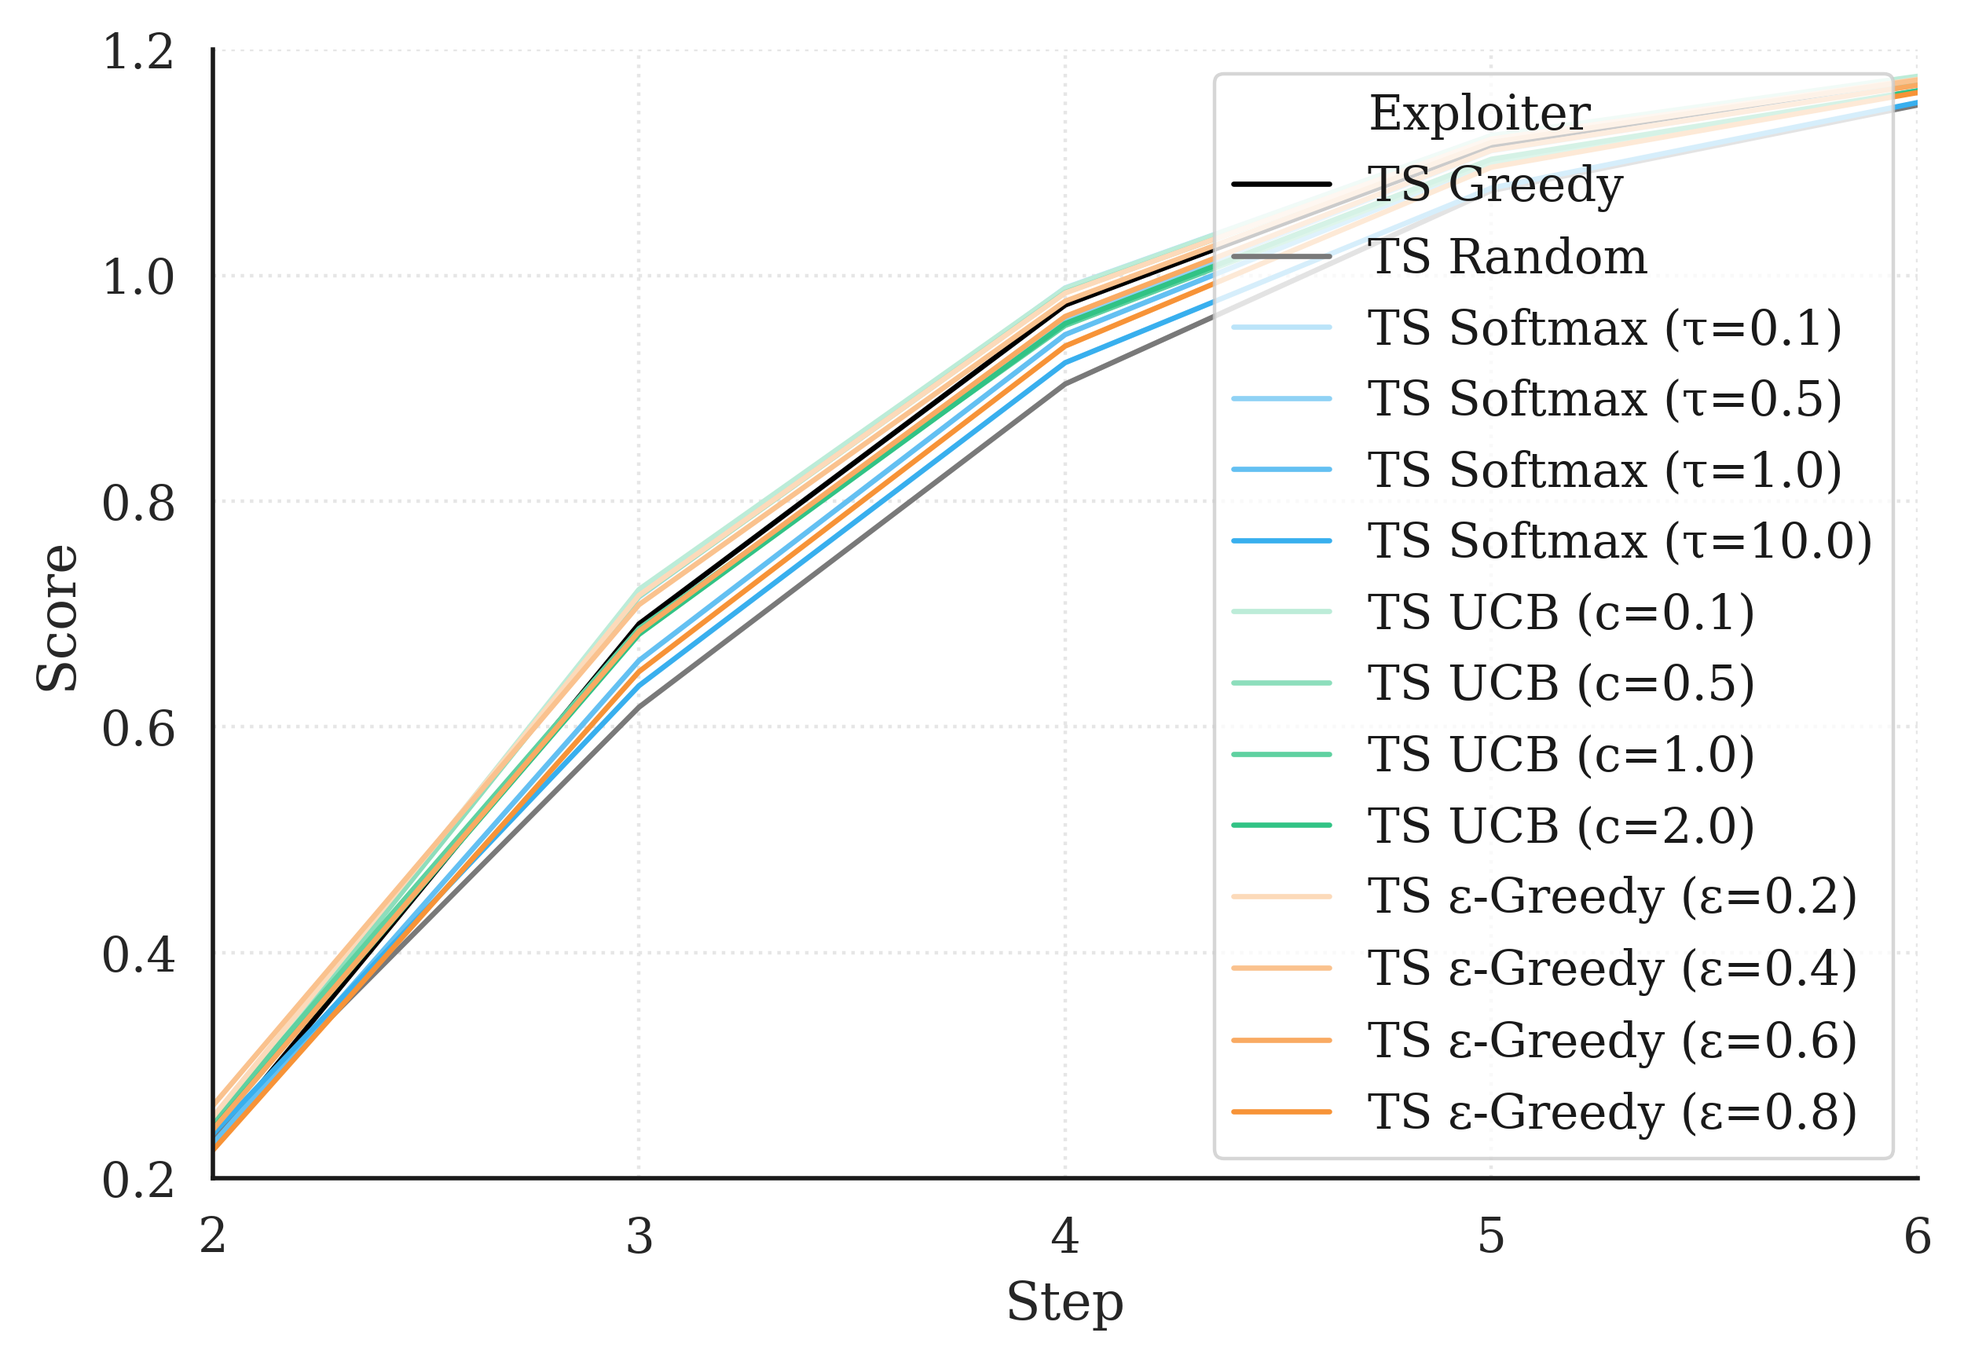
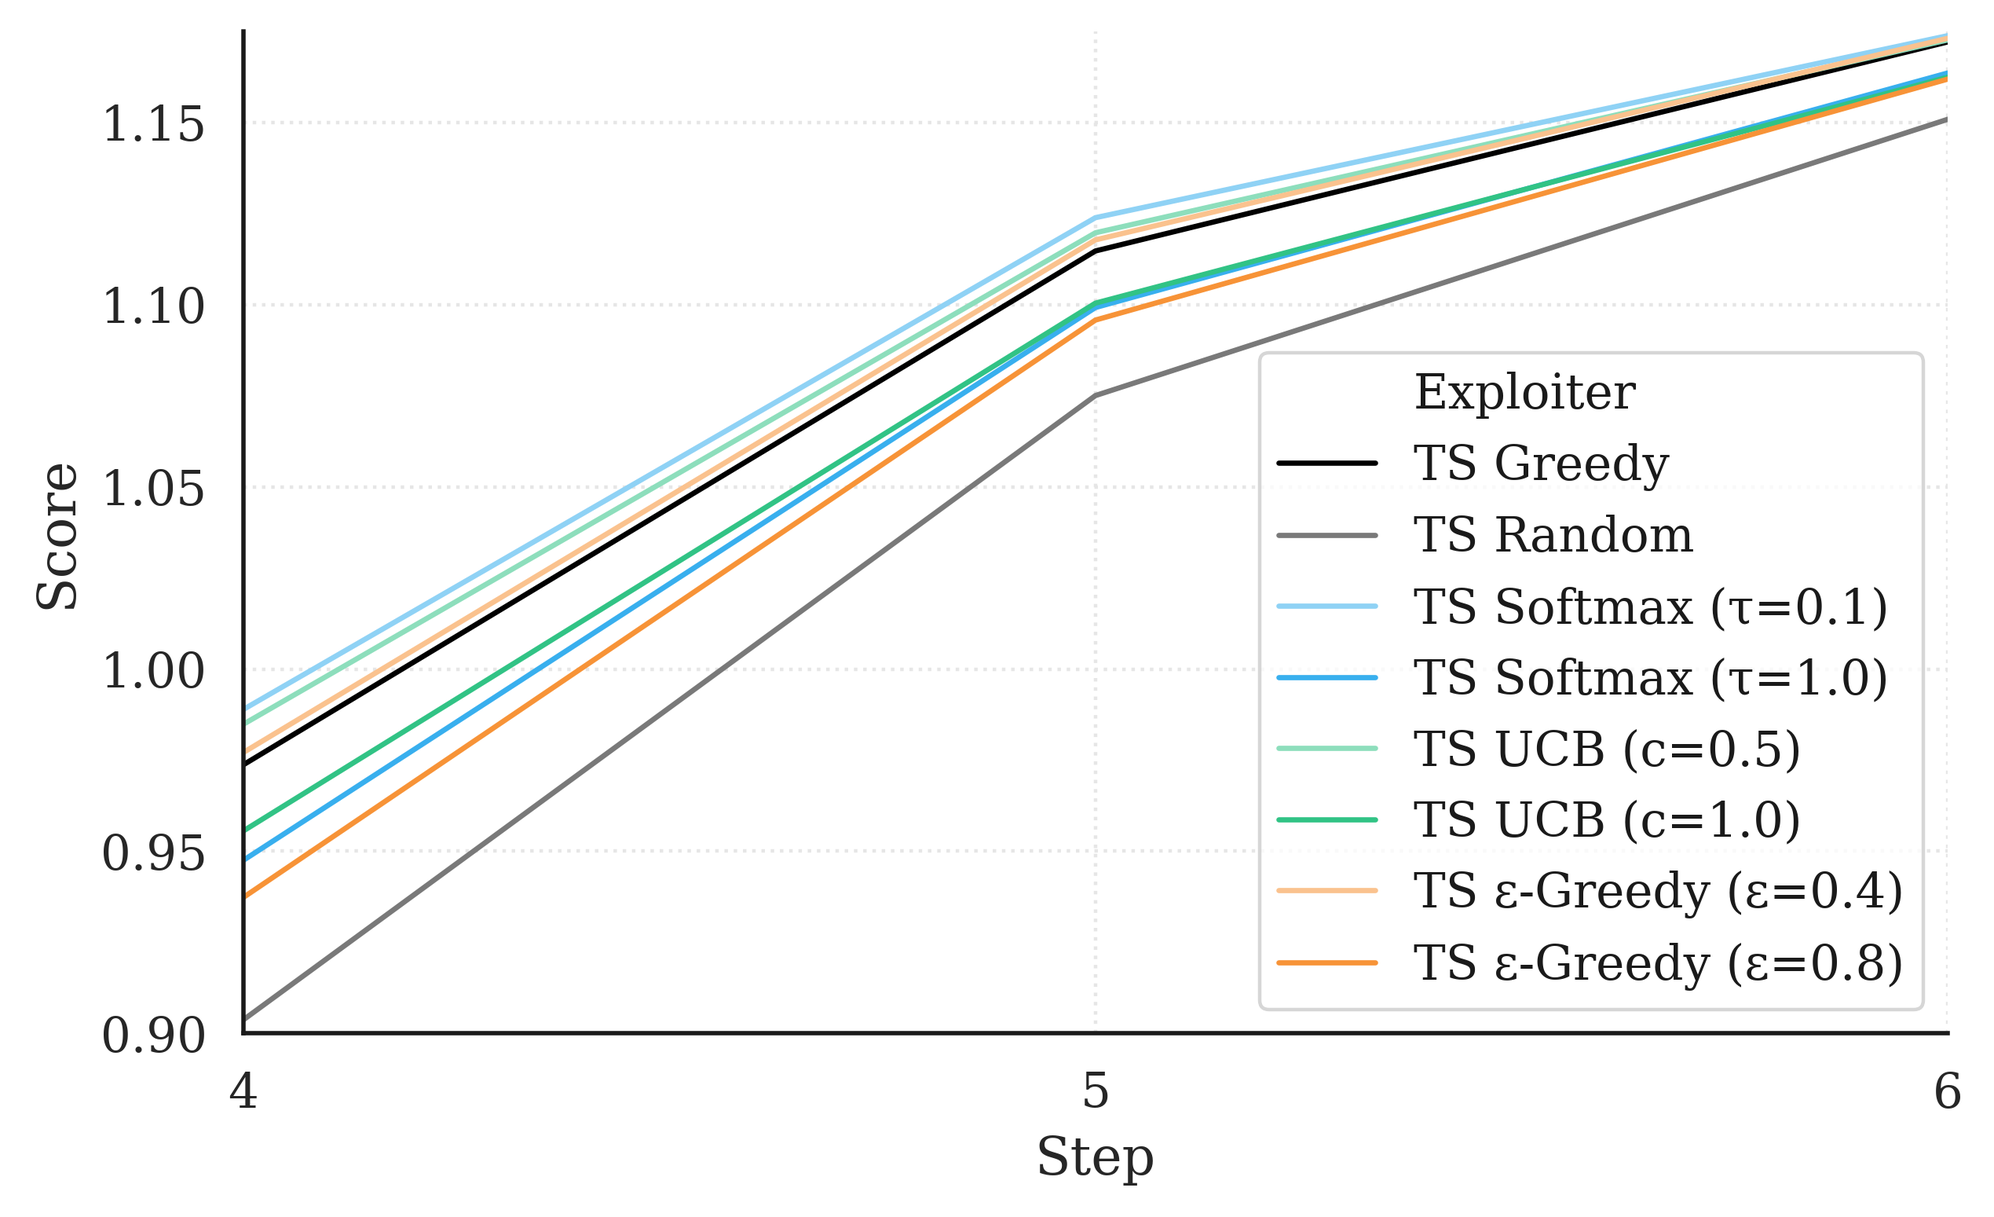
yeah... not going to make the submission deadline...

diff --git a/tsucb/pbt/examples/pbt_paper_toy_example.py b/tsucb/pbt/examples/pbt_paper_toy_example.py
@@ -8,7 +8,7 @@ import seaborn as sns
 import pandas as pd
 
 from tsucb.helper import util, defaults
-from tsucb.pbt.examples.pbt_local_mnist_example import uniform_perturb, perturb, normal_explore
+from tsucb.pbt.examples.pbt_local_mnist_example import uniform_perturb, perturb, normal_explore, normal_explore_radius, normal_explore_dual_radius, normal_explore_offset, normal_explore_dual_offset
 from tsucb.pbt.strategies import *
 from tsucb.pbt.pbt import Member, Population
 
@@ -57,16 +57,22 @@ class ToyMember(Member):
         """perturb hyper-parameters with noise from a normal distribution"""
         s = population.member_options.get('exploration_scale', 0.1)
 
-        return ToyHyperParams(
+        params = ToyHyperParams(
+            # np.array([
+            #     normal_explore_dual_offset(self._h.coef[0], 0, 1, percent_in_radius=0.9, scale=0.75, bounds=(0.000001, 0.999999)),
+            #     normal_explore_dual_offset(self._h.coef[1], 0, 1, percent_in_radius=0.9, scale=0.75, bounds=(0.000001, 0.999999)),
+            # ]),
+            # normal_explore_dual_offset(self._h.alpha, 0, 1, percent_in_radius=0.9, scale=0.75, bounds=(0.000001, 0.999999)),
             normal_explore(self._h.coef, s, 0, 1),
             normal_explore(self._h.alpha, s, 0, 1),
-            # uniform_perturb(self._h.coef, (s-1), 1/(s-1), 0, 1),
-            # uniform_perturb(self._h.alpha, (s-1), 1/(s-1), 0, 1),
+            # perturb(self._h.coef, (s-1), 1/(s-1), 0, 1),
+            # perturb(self._h.alpha, (s-1), 1/(s-1), 0, 1),
             # np.clip(np.random.normal(self._h.coef, s), 0, 1),
             # np.clip(np.random.normal(self._h.alpha, s), 0, 1),
             # self._h.coef + np.random.randn(*self._h.coef.shape) * s,
             # abs(self._h.alpha + np.random.randn() * s),
         )
+        return params
 
     @property
     def mutable_str(self) -> str:
@@ -157,7 +163,9 @@ def make_plot(ax_col, options, exploiter, steps=200, title=None, converge_score=
 
 def run_dual_test():
     options = {
-        "steps": 10,
+        "steps": 20,
+
+        "steps_till_begin": 1,
         "steps_till_ready": 2,
 
         "debug": False,
@@ -165,15 +173,15 @@ def run_dual_test():
         "exploit_copies_h": False,  # must be False for toy example to be valid
 
         # custom
-        "repeats": 500,
+        "repeats": 10,
         "exploration_scale": 0.25,
         "population_size": 50,
         "print_scores": False,
 
         # redo
-        'LOAD': True,
+        'LOAD': False,
         'SAVE': False,
-        'SAVE_GRAPHS': True,
+        'SAVE_GRAPHS': False,
     }
 
     make_exploit_strategy = lambda: ExploitStrategyTruncationSelection()
@@ -185,22 +193,22 @@ def run_dual_test():
         (dict(Exploiter='TS Greedy',               Suggest='greedy',  Epsilon=True,  Random=True),  lambda: GeneralisedExploiter(make_exploit_strategy(), SuggestGreedy())),
     ]
     exploiters_greedy = [
-        (dict(Exploiter='TS ε-Greedy (ε=0.2)',   Suggest='uniform', Epsilon=True,  Random=True),  lambda: GeneralisedExploiter(make_exploit_strategy(), SuggestEpsilonGreedy(epsilon=0.2))),
+        # (dict(Exploiter='TS ε-Greedy (ε=0.2)',   Suggest='uniform', Epsilon=True,  Random=True),  lambda: GeneralisedExploiter(make_exploit_strategy(), SuggestEpsilonGreedy(epsilon=0.2))),
         (dict(Exploiter='TS ε-Greedy (ε=0.4)',   Suggest='uniform', Epsilon=True,  Random=True),  lambda: GeneralisedExploiter(make_exploit_strategy(), SuggestEpsilonGreedy(epsilon=0.4))),
-        (dict(Exploiter='TS ε-Greedy (ε=0.6)',   Suggest='uniform', Epsilon=True,  Random=True),  lambda: GeneralisedExploiter(make_exploit_strategy(), SuggestEpsilonGreedy(epsilon=0.6))),
+        # (dict(Exploiter='TS ε-Greedy (ε=0.6)',   Suggest='uniform', Epsilon=True,  Random=True),  lambda: GeneralisedExploiter(make_exploit_strategy(), SuggestEpsilonGreedy(epsilon=0.6))),
         (dict(Exploiter='TS ε-Greedy (ε=0.8)',   Suggest='uniform', Epsilon=True,  Random=True),  lambda: GeneralisedExploiter(make_exploit_strategy(), SuggestEpsilonGreedy(epsilon=0.8))),
     ]
     exploiters_softmax = [
         (dict(Exploiter='TS Softmax (τ=0.1)',    Suggest='softmax', Epsilon=False, Random=True),  lambda: GeneralisedExploiter(make_exploit_strategy(), SuggestSoftmax(temperature=0.1))),
-        (dict(Exploiter='TS Softmax (τ=0.5)',    Suggest='softmax', Epsilon=False, Random=True),  lambda: GeneralisedExploiter(make_exploit_strategy(), SuggestSoftmax(temperature=0.5))),
+        # (dict(Exploiter='TS Softmax (τ=0.5)',    Suggest='softmax', Epsilon=False, Random=True),  lambda: GeneralisedExploiter(make_exploit_strategy(), SuggestSoftmax(temperature=0.5))),
         (dict(Exploiter='TS Softmax (τ=1.0)',    Suggest='softmax', Epsilon=False, Random=True),  lambda: GeneralisedExploiter(make_exploit_strategy(), SuggestSoftmax(temperature=1.0))),
-        (dict(Exploiter='TS Softmax (τ=10.0)',    Suggest='softmax', Epsilon=False, Random=True),  lambda: GeneralisedExploiter(make_exploit_strategy(), SuggestSoftmax(temperature=10.0))),
+        # (dict(Exploiter='TS Softmax (τ=10.0)',    Suggest='softmax', Epsilon=False, Random=True),  lambda: GeneralisedExploiter(make_exploit_strategy(), SuggestSoftmax(temperature=10.0))),
     ]
     exploiters_ucb = [
-        (dict(Exploiter='TS UCB (c=0.1)',     Suggest='ucb',     Epsilon=False, Random=False), lambda: GeneralisedExploiter(make_exploit_strategy(), SuggestUcb(c=0.1, incr_mode='exploited'))),
+        # (dict(Exploiter='TS UCB (c=0.1)',     Suggest='ucb',     Epsilon=False, Random=False), lambda: GeneralisedExploiter(make_exploit_strategy(), SuggestUcb(c=0.1, incr_mode='exploited'))),
         (dict(Exploiter='TS UCB (c=0.5)',     Suggest='ucb',     Epsilon=False, Random=False), lambda: GeneralisedExploiter(make_exploit_strategy(), SuggestUcb(c=0.5, incr_mode='exploited'))),
         (dict(Exploiter='TS UCB (c=1.0)',     Suggest='ucb',     Epsilon=False, Random=False), lambda: GeneralisedExploiter(make_exploit_strategy(), SuggestUcb(c=1.0, incr_mode='exploited'))),
-        (dict(Exploiter='TS UCB (c=2.0)',     Suggest='ucb',     Epsilon=False, Random=False), lambda: GeneralisedExploiter(make_exploit_strategy(), SuggestUcb(c=2.0, incr_mode='exploited'))),
+        # (dict(Exploiter='TS UCB (c=2.0)',     Suggest='ucb',     Epsilon=False, Random=False), lambda: GeneralisedExploiter(make_exploit_strategy(), SuggestUcb(c=2.0, incr_mode='exploited'))),
         # (dict(Exploiter='TS UCB (c=100, S)',     Suggest='ucb',     Epsilon=False, Random=False), lambda: OrigExploitUcb(c=0.00001, normalise_mode='none')),
         # (dict(Exploiter='TS UCB (c=100, P)',     Suggest='ucb',     Epsilon=False, Random=False), lambda: OrigExploitUcb(c=1, normalise_mode='population')),
         # (dict(Exploiter='TS UCB (c=100, C)',     Suggest='ucb',     Epsilon=False, Random=False), lambda: OrigExploitUcb(c=1, normalise_mode='none')),
@@ -250,22 +258,22 @@ def run_dual_test():
             for e, v in zip(xpltrs, sns.light_palette(color, len(xpltrs)+1)[1:])
         })
 
-    for i, (name, xpltrs) in enumerate([
-        ('e-greedy', exploiters_default + exploiters_greedy),
-        ('softmax', exploiters_default + exploiters_softmax),
-        ('ucb', exploiters_default + exploiters_ucb),
-    ]):
-        keys = {e[0]['Exploiter'] for e in xpltrs}
-        data = aggregated.loc[aggregated['Exploiter'].isin(keys)]
-        # PLOT
-        fig, ax = plt.subplots(figsize=(6*7/6, 2.5*7/6))
-        ax.xaxis.set_major_locator(plticker.MultipleLocator(base=1.0))
-        plt.xlim((2, 6))
-        plt.ylim((0.2, 1.2))
-        sns.lineplot(x="Step", y="Score", data=data, hue="Exploiter", palette=palette)
-        if options['SAVE_GRAPHS']:
-            plt.savefig(f'toy_results_{name}.png', dpi=400, bbox_inches="tight")
-        plt.show()
+    # for i, (name, xpltrs) in enumerate([
+    #     ('e-greedy', exploiters_default + exploiters_greedy),
+    #     ('softmax', exploiters_default + exploiters_softmax),
+    #     ('ucb', exploiters_default + exploiters_ucb),
+    # ]):
+    #     keys = {e[0]['Exploiter'] for e in xpltrs}
+    #     data = aggregated.loc[aggregated['Exploiter'].isin(keys)]
+    #     # PLOT
+    #     fig, ax = plt.subplots(figsize=(6*7/6, 2.5*7/6))
+    #     ax.xaxis.set_major_locator(plticker.MultipleLocator(base=1.0))
+    #     plt.xlim((4, 6))
+    #     plt.ylim((0.9, 1.2))
+    #     sns.lineplot(x="Step", y="Score", data=data, hue="Exploiter", palette=palette)
+    #     if options['SAVE_GRAPHS']:
+    #         plt.savefig(f'toy_results_{name}.png', dpi=400, bbox_inches="tight")
+    #     plt.show()
 
     for i, (name, xpltrs) in enumerate([
         ('all', exploiters)
@@ -273,10 +281,10 @@ def run_dual_test():
         keys = {e[0]['Exploiter'] for e in xpltrs}
         data = aggregated.loc[aggregated['Exploiter'].isin(keys)]
         # PLOT
-        fig, ax = plt.subplots(figsize=(6*7/6, 4*7/6))
+        fig, ax = plt.subplots(figsize=(6*7/6, 3.55*7/6))
         ax.xaxis.set_major_locator(plticker.MultipleLocator(base=1.0))
-        plt.xlim((2, 6))
-        plt.ylim((0.2, 1.2))
+        # plt.xlim((4, 6))
+        # plt.ylim((0.9, 1.175))
         sns.lineplot(x="Step", y="Score", data=data, hue="Exploiter", palette=palette)
         if options['SAVE_GRAPHS']:
             plt.savefig(f'toy_results_{name}.png', dpi=400, bbox_inches="tight")

diff --git a/tsucb/experiment_args.py b/tsucb/experiment_args.py
@@ -92,6 +92,15 @@ EXPERIMENT_CHOICES = [
     'cnn'
 ]
 
+CNN_EXPLORE_MUTATIONS = [
+    'uniform_perturb',
+    'perturb',
+    'ratio_normal',
+    'uniform',
+    'normal',
+]
+
+
 class ExperimentArgs(Args):
 
     # EXPERIMENT
@@ -109,11 +118,13 @@ class ExperimentArgs(Args):
     cnn_lr_max:               float           = field(default=0.1,    cast=flt_rng(0, 1))                              # used
     cnn_momentum_min:         float           = field(default=0.01,   cast=flt_rng(0, 1))                              # used
     cnn_momentum_max:         float           = field(default=0.99,   cast=flt_rng(0, 1))                              # used
+    cnn_explore_mutation:     str             = field(default='uniform_perturb', choices=CNN_EXPLORE_MUTATIONS)
     # PBT
     pbt_print:                bool            = field(default=False)                                                   # used
     pbt_target_steps:         int             = field(default=15,          cast=int_rng(1, INF))                       # used
     pbt_members:              int             = field(default=25,          cast=int_rng(1, INF))                       # used
     pbt_members_ready_after:  int             = field(default=2,           cast=int_rng(1, INF))                       # used
+    pbt_members_begin_after:  int             = field(default=1,           cast=int_rng(1, INF))                       # used
     pbt_exploit_strategy:     str             = field(default='ts',        cast=str.lower, choices=STRATEGY_CHOICES)   # used
     pbt_exploit_suggest:      str             = field(default='ran',       cast=str.lower, choices=SUGGEST_CHOICES)    # used
     pbt_disable_exploit:      bool            = field(default=False)                                                   # used
@@ -157,6 +168,7 @@ class ExperimentArgs(Args):
         opts = {k: v for k, v in opts.items() if not k.startswith('suggest_') or k in self._used_suggest_fields}
         opts = {k: v for k, v in opts.items() if not k.startswith('strategy_') or k in self._used_strategy_fields}
         opts = {k: v for k, v in opts.items() if not k.startswith('cnn_') or k in self._used_cnn_fields}
+        opts = {k: v for k, v in opts.items() if not k.startswith('explore_mutation') or k in self._used_cnn_fields}
         return opts
 
     # >>> COMPUTED VARIABLES <<< #
@@ -238,6 +250,39 @@ class ExperimentArgs(Args):
             suggester=self.make_suggest(),
         )
 
+    def make_cnn_mutations(self) -> dict:
+        u = self._use_cnn_field
+        mutation, lm, lM, mm, mM = u('cnn_explore_mutation'), u('cnn_lr_min'), u('cnn_lr_max'), u('cnn_momentum_min'), u('cnn_momentum_max')
+        if mutation == 'uniform_perturb':
+            mutations = {
+                'optimizer_options/lr': ('uniform_perturb', 0.5, 1.8, lm, lM),
+                'optimizer_options/momentum': ('uniform_perturb', 0.5, 2.00, mm, mM),
+            }
+        elif mutation == 'perturb':
+            mutations = {
+                'optimizer_options/lr': ('perturb', 0.8, 1.2, lm, lM),
+                'optimizer_options/momentum': ('perturb', 0.8, 1.2, mm, mM),
+            }
+        elif mutation == 'ratio_normal':
+            d = 0.0000001
+            mutations = {
+                'optimizer_options/lr': ('normal_explore_dual_offset', lm, lM, 0.9, 0.75, (lm + d, lM - d)),
+                'optimizer_options/momentum': ('normal_explore_dual_offset', mm, mM, 0.9, 0.75, (mm + d, mM - d)),
+            }
+        elif mutation == 'uniform':
+            mutations = {
+                'optimizer_options/lr': ('uniform', lm, lM),
+                'optimizer_options/momentum': ('uniform', mm, mM),
+            }
+        elif mutation == 'normal':
+            mutations = {
+                'optimizer_options/lr': ('normal_explore', 0.1, lm, lM),
+                'optimizer_options/momentum': ('normal_explore', 0.1, mm, mM),
+            }
+        else:
+            raise KeyError(f'cnn_explore_mutation: {self.cnn_explore_mutation} not yet supported')
+        return mutations
+
     def make_member(self):
         if self.experiment_type == 'toy':
             from tsucb.pbt.examples.pbt_paper_toy_example import ToyMember, ToyHyperParams
@@ -255,10 +300,7 @@ class ExperimentArgs(Args):
                         lr=random_log_uniform(u('cnn_lr_min'), u('cnn_lr_max')),
                         momentum=random_uniform(u('cnn_momentum_min'), u('cnn_momentum_max')),
                     ),
-                    mutations={
-                        'optimizer_options/lr':       ('uniform_perturb', 0.5,  1.8, u('cnn_lr_min'), u('cnn_lr_max')),              # eg. 0.8 < 1/1.2  shifts exploration towards getting smaller
-                        'optimizer_options/momentum': ('uniform_perturb', 0.5, 2.00, u('cnn_momentum_min'), u('cnn_momentum_max')),  #     0.8 = 1/1.25 is balanced
-                    },
+                    mutations=self.make_cnn_mutations(),
                     train_images_per_step=60000//u('cnn_steps_per_epoch'),
                     batch_size=u('cnn_batch_size'),
                     use_gpu=not u('cnn_use_cpu'),
@@ -278,6 +320,7 @@ class ExperimentArgs(Args):
             members=self.make_members(),
             exploiter=self.make_exploiter(),
             member_options=dict(
+                steps_till_begin=self.pbt_members_begin_after,
                 steps_till_ready=self.pbt_members_ready_after,
                 debug=self.debug,
                 warn_exploit_self=True,

diff --git a/tsucb/pbt/examples/pbt_local_mnist_example.py b/tsucb/pbt/examples/pbt_local_mnist_example.py
@@ -27,6 +27,7 @@ from tsucb.helper.torch.trainable import TorchTrainable
 from tsucb.helper import util
 from tsucb.pbt.pbt import Member, Population, IExploiter, Exploiter
 from tsucb.pbt.strategies import *
+from scipy.special import erfinv
 
 
 # ========================================================================= #
@@ -47,6 +48,48 @@ def random_log_uniform(a, b):
 # ========================================================================= #
 # MUTATIONS                                                                 #
 # ========================================================================= #
+
+def normal_explore_radius(center, radius, percent_in_radius, bounds):
+    """
+    :param center: mean of the normal distribution
+    :param radius: distance from the mean
+    :param percent_in_radius: percentage of values that fall in the radius from the mean
+    :return:
+    """
+    assert isinstance(center, (int, float))
+    assert isinstance(radius, (int, float))
+    assert radius > 0
+    assert isinstance(percent_in_radius, (int, float))
+    assert bounds is None or (isinstance(bounds, tuple) and len(bounds) == 2)
+
+    t = 2 ** 0.5 * erfinv(percent_in_radius)
+    val = np.random.normal(center, radius / t)
+    if bounds:
+        val = np.clip(val, *bounds)
+    return val
+
+def normal_explore_offset(center, lower_target, percent_in_radius, scale, bounds):
+    return normal_explore_radius(center, (center - lower_target) * scale, percent_in_radius=percent_in_radius, bounds=bounds)
+
+def normal_explore_dual_radius(center, radius_a, radius_b, percent_in_radius, bounds):
+    assert isinstance(center, (int, float))
+    assert isinstance(radius_a, (int, float))
+    assert radius_a > 0
+    assert isinstance(radius_b, (int, float))
+    assert radius_b > 0
+    assert isinstance(percent_in_radius, (int, float))
+    assert bounds is None or (isinstance(bounds, tuple) and len(bounds) == 2)
+
+    val, lower = center, np.random.rand() < 0.5
+    while (not lower and val >= center) or (lower and val <= center):
+        val = normal_explore_radius(center, radius_a if lower else radius_b, percent_in_radius, None)
+    if bounds:
+        val = np.clip(val, *bounds)
+    return val
+
+def normal_explore_dual_offset(center, lower_target, upper_target, percent_in_radius, scale, bounds):
+    return normal_explore_dual_radius(center, (center - lower_target) * scale, (upper_target - center) * scale, percent_in_radius=percent_in_radius, bounds=bounds)
+
 
 def normal_explore(value, scale, min, max):
     val = np.random.normal(value, scale)
@@ -92,6 +135,11 @@ MUTATIONS = {
     'select': select,
     'select_near': select_near,
     'uniform': uniform,
+
+    'normal_explore_radius': normal_explore_radius,
+    'normal_explore_offset': normal_explore_offset,
+    'normal_explore_dual_radius': normal_explore_dual_radius,
+    'normal_explore_dual_offset': normal_explore_dual_offset,
 }
 
 
@@ -216,6 +264,7 @@ def main():
 
     population_options = dict(
         members=15,
+        steps_till_begin=1,
         steps_till_ready=2,
         debug=False,
         warn_exploit_self=True,

diff --git a/tsucb/pbt/pbt.py b/tsucb/pbt/pbt.py
@@ -650,7 +650,11 @@ class Member(IMember):
         :param steps_since_explore: The number of steps since the last hyper-parameter change.
         :return: True if this member is ready for the exploit/explore stage.
         """
-        return steps_since_explore >= population.member_options['steps_till_ready']
+        if steps < population.member_options['steps_till_begin']:
+            return False
+        if steps_since_explore < population.member_options['steps_till_ready']:
+            return False
+        return True
 
     @abc.abstractmethod
     def _step(self, options: dict) -> object:
